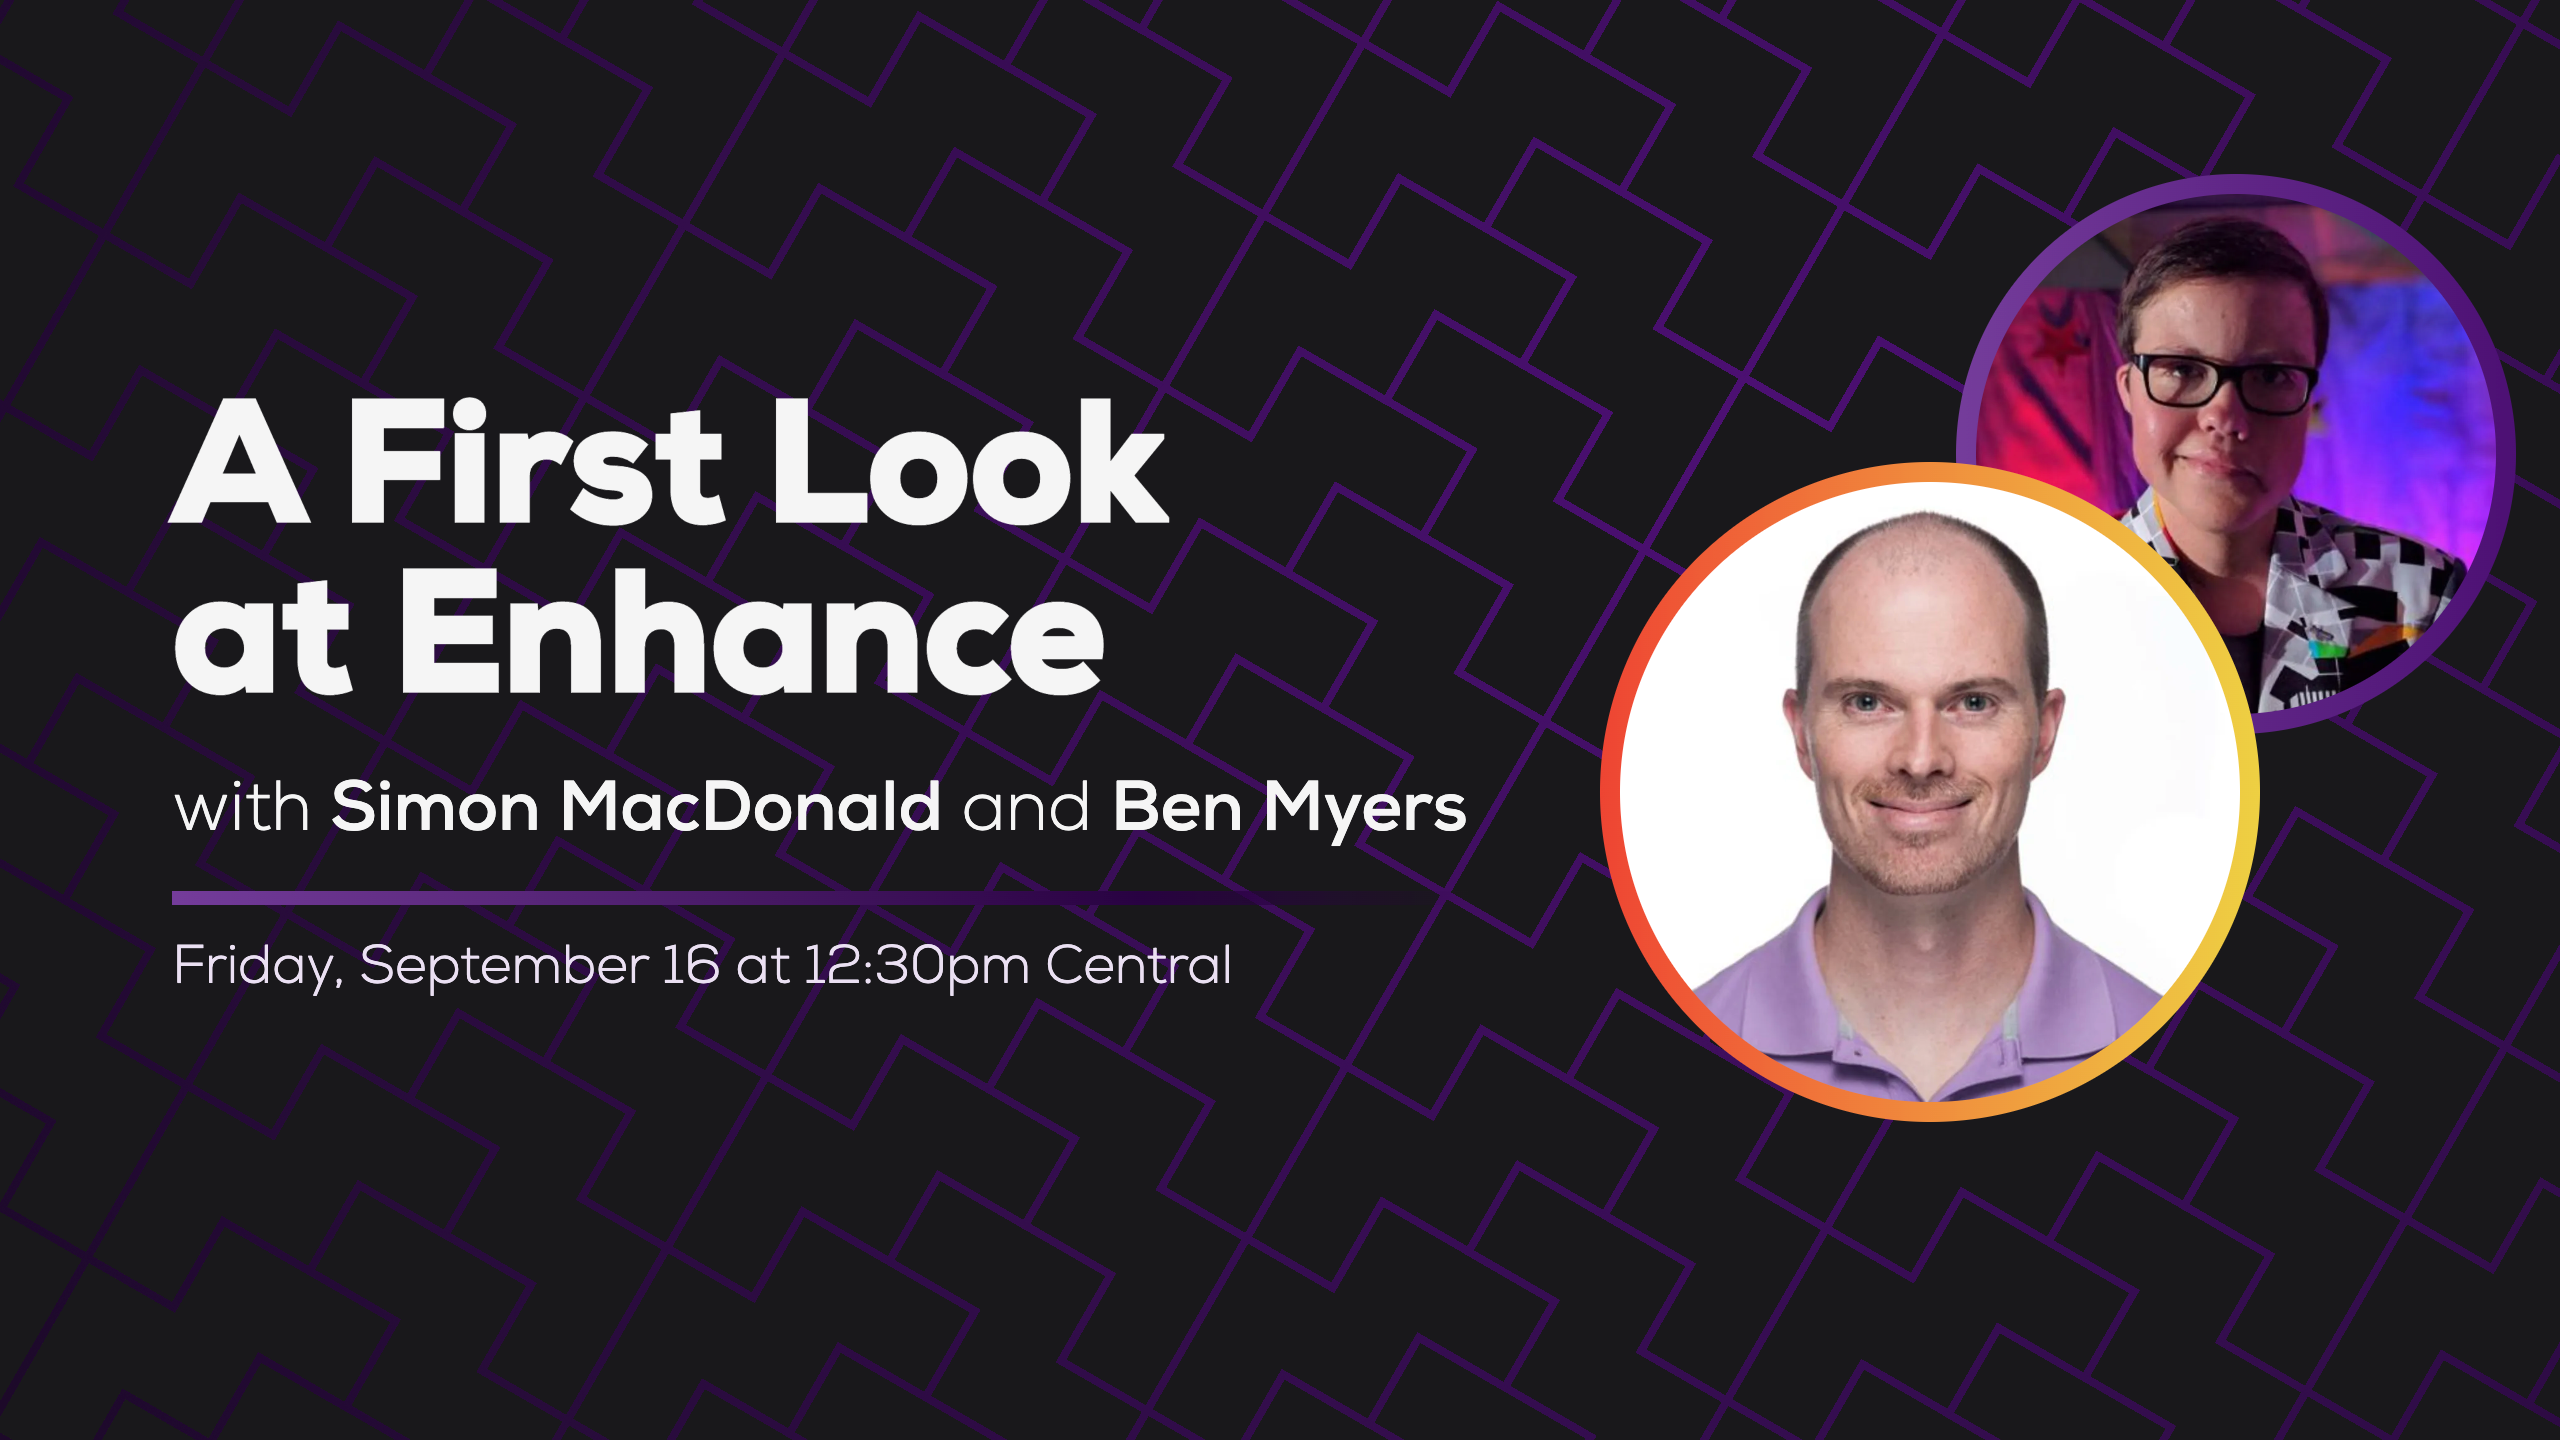
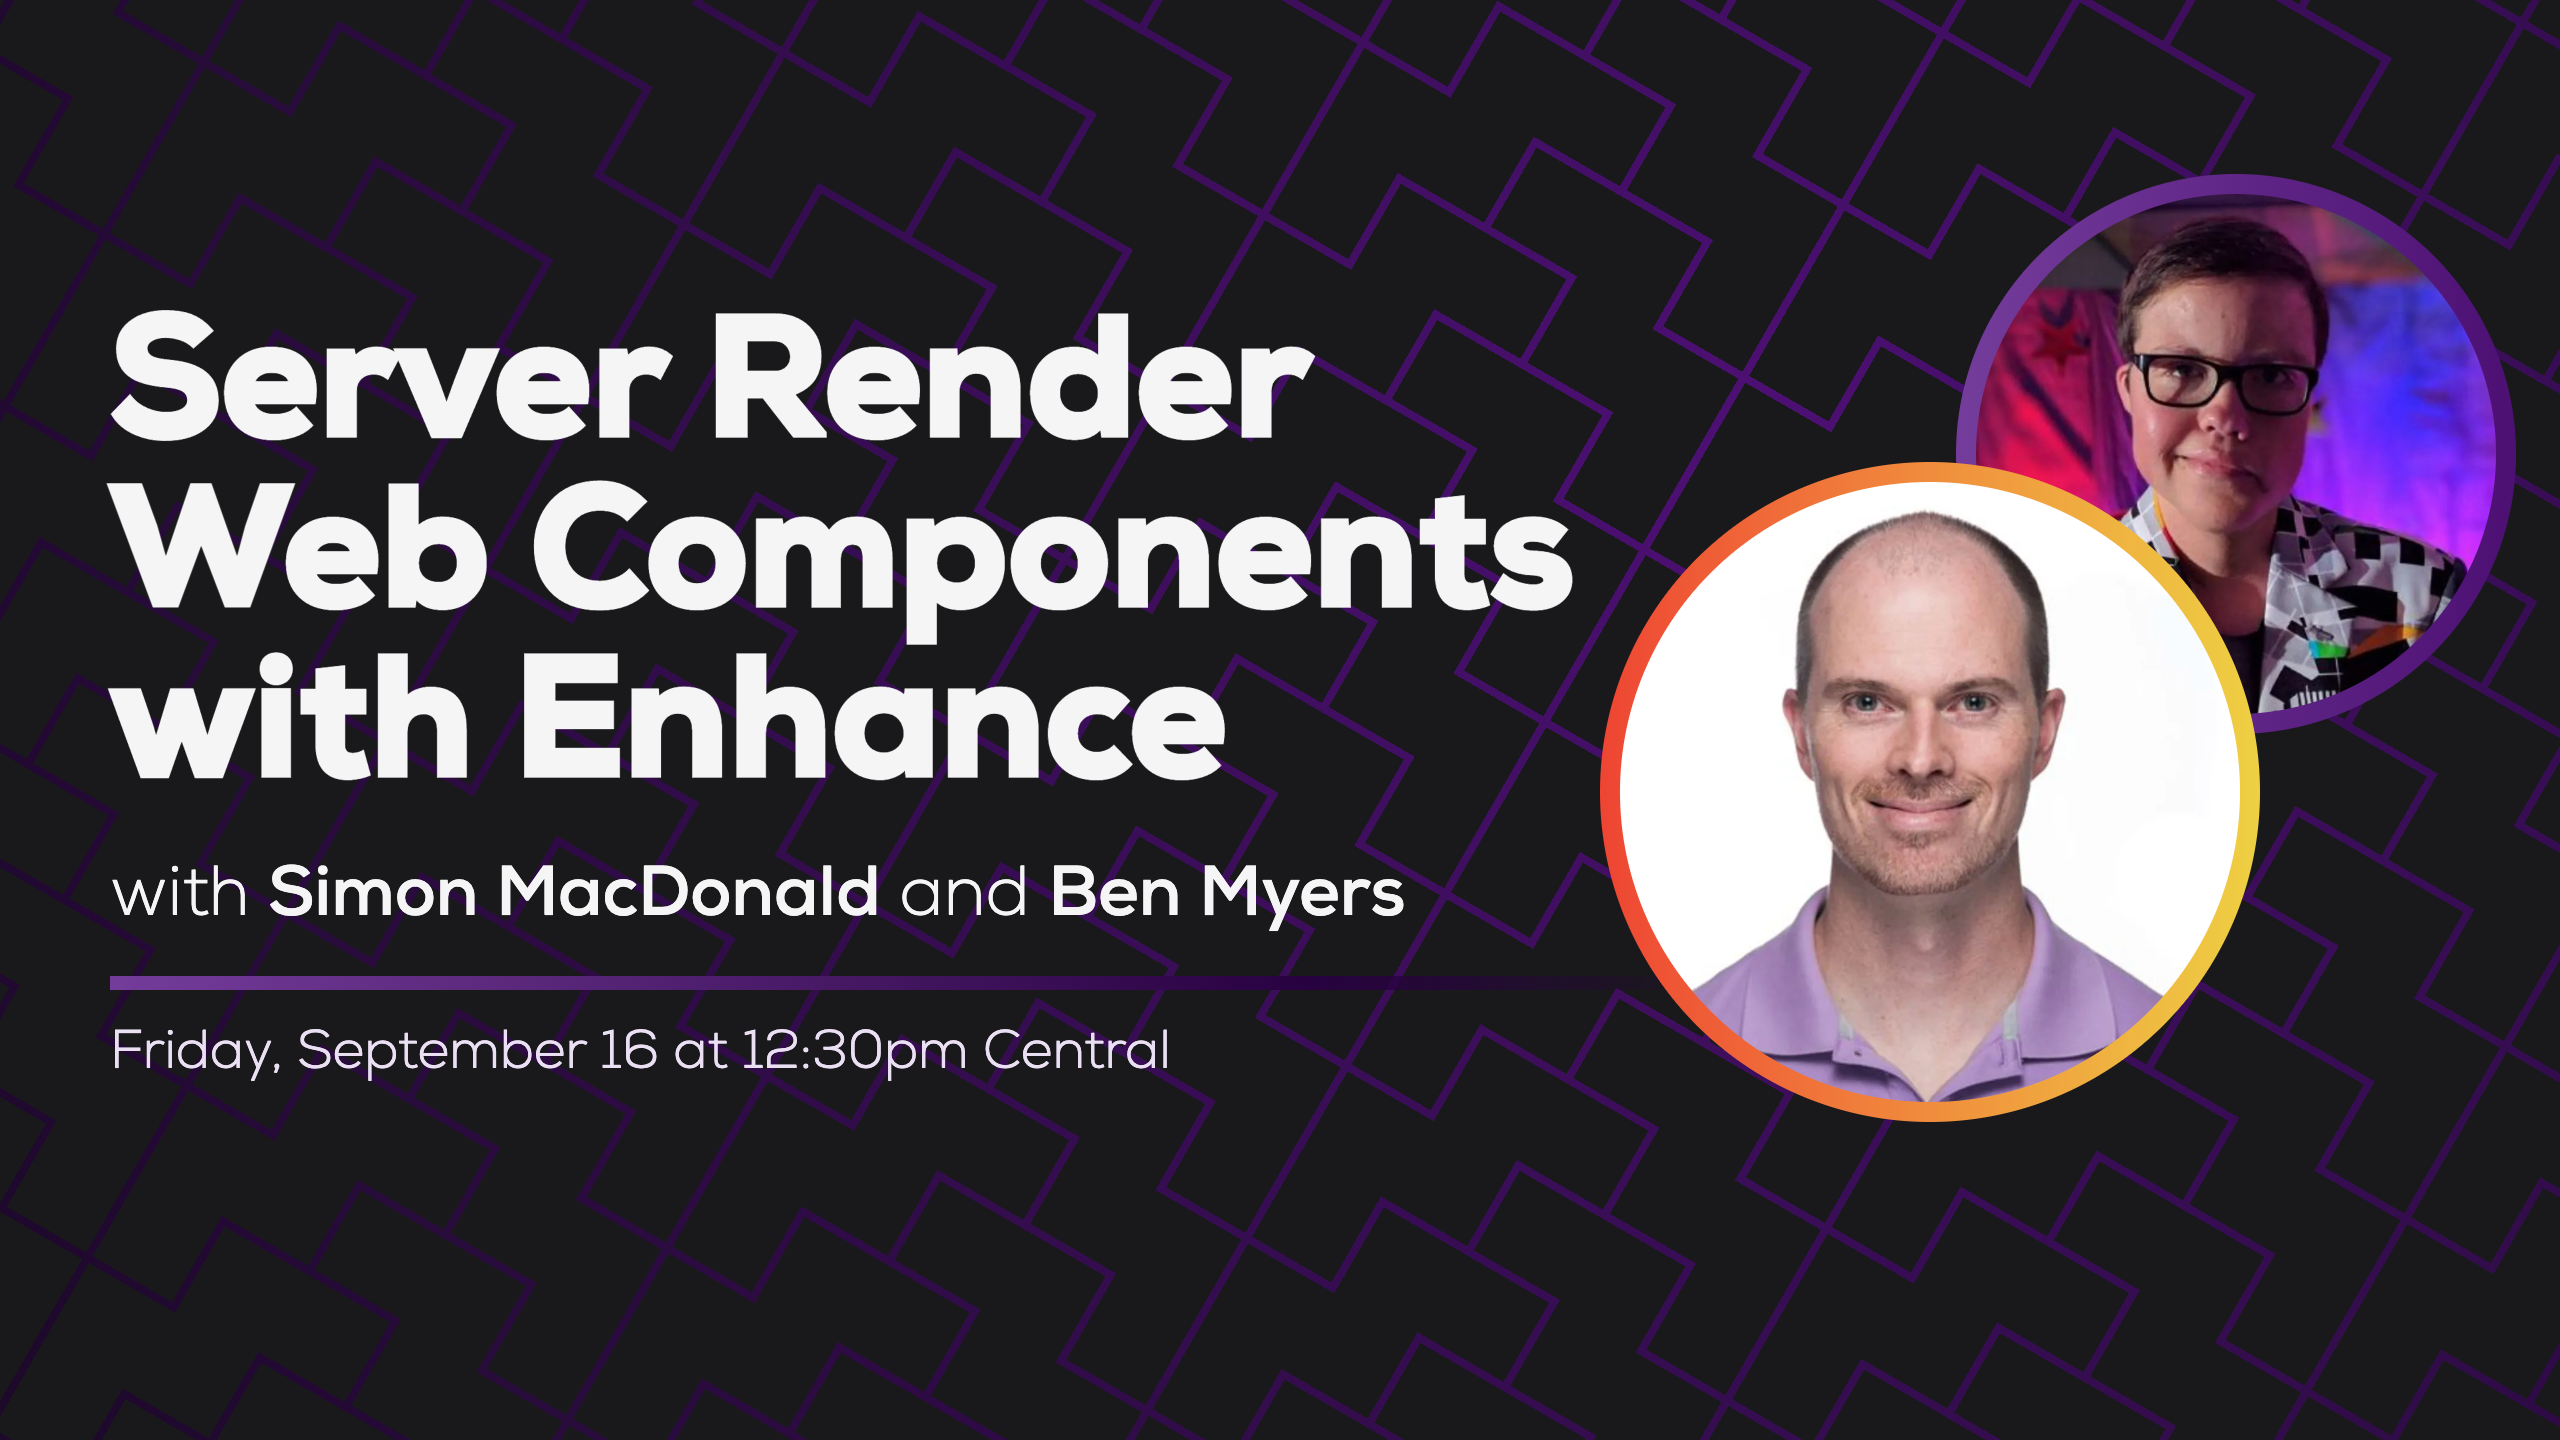
Rename Enhance stream

Changed region(s): [[0.0312, 0.2188, 0.625, 0.6875], [0.0312, 0.7188, 0.4688, 0.75]]

diff --git a/src/_/thumbnail.html b/src/_/thumbnail.html
@@ -1,11 +1,11 @@
 ---
 host: Ben Myers
-guest: Graham Ritchie
-timestamp: 'Tuesday, September 27 at 2pm Central'
+guest: Simon MacDonald
+timestamp: 'Friday, September 16 at 12:30pm Central'
 title:
-  - Convincing the 
-  - Business to Invest
-  - in Accessibility
+  - Server Render
+  - Web Components
+  - with Enhance
 ---
 <!DOCTYPE html>
 <html lang="en">

diff --git a/src/streams/2022-09-16-enhance/index.md b/src/streams/2022-09-16-enhance/index.md
@@ -1,6 +1,6 @@
 ---
-title: A First Look at Enhance (with Simon MacDonald)
-thumbnailTitle: A First Look at Enhance
+title: Server Render Web Components with Enhance (with Simon MacDonald)
+thumbnailTitle: Server Render Web Components with Enhance
 host:
   - Ben Myers
 guests:
